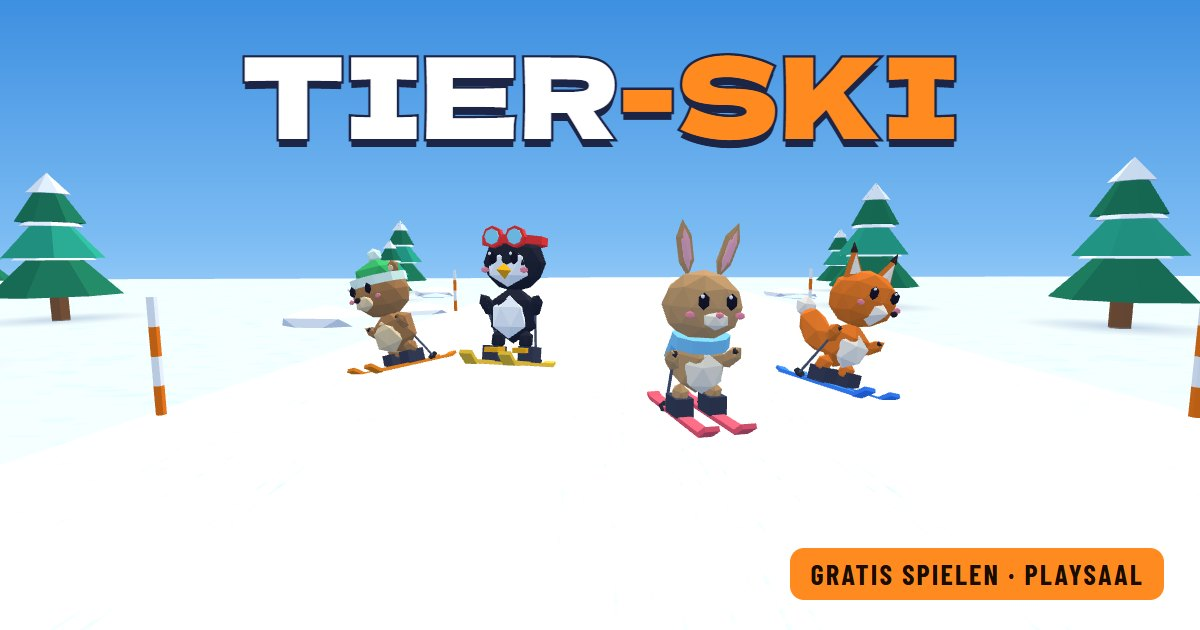
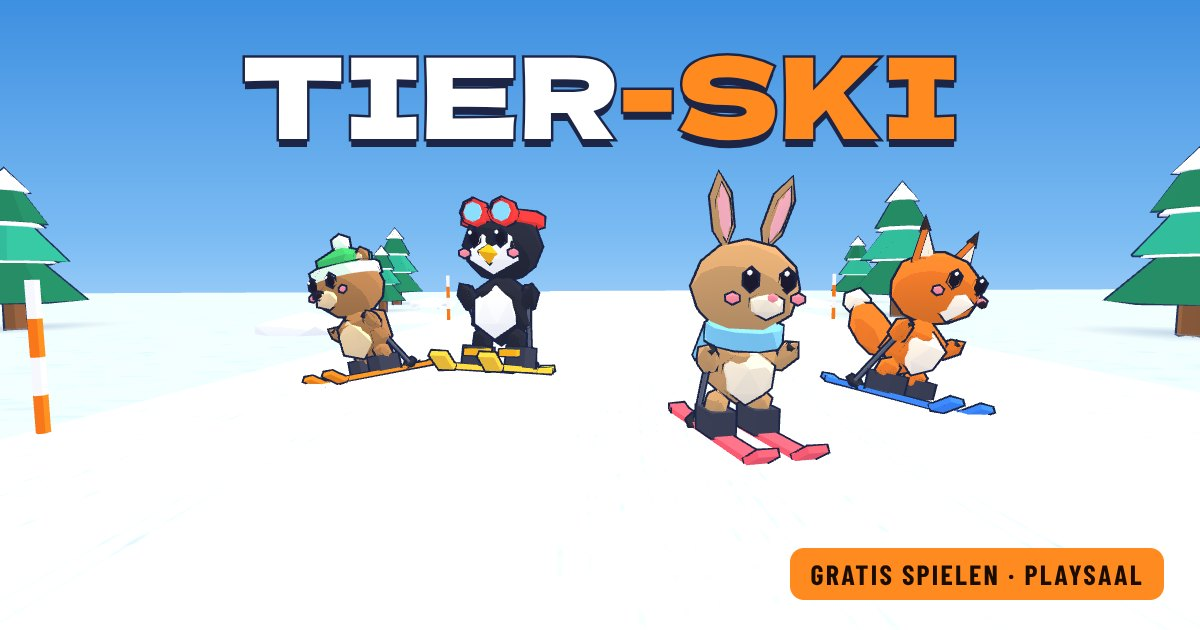
Tier-Ski: Comic-Look – runde Tiere, Umrisslinien, Schneegipfel, Skispuren; Kachel und Vorschau neu
- Toon-Schattierung (3 Stufen), Normalen per Auto-Smooth (48°) geglättet
- Umrisse je Tier-Gelenk zusammengelegt bzw. als Instanz-Zwilling (~60 Zeichenaufrufe)
- Berge mit Höhenringen und weißer Schneekappe
- Skispuren hinter dem Tier, Lücken bei Sprung/Schanze
- Kachel/Teilen-Vorschau neu gerendert, Cache-Versionen erhöht
- Tests: tier-ski-sim 10/10, tier-ski-browser 11/11

Claude-Session: https://claude.ai/code/session_015CsN6Mg3zJYEPCsog9xs49

diff --git a/public/spiele/tier-ski/game.js b/public/spiele/tier-ski/game.js
@@ -33,9 +33,71 @@ const scene = new THREE.Scene();
 const NEBEL = col('#d8ecff');
 scene.fog = new THREE.Fog(NEBEL, 42, 118);
 const camera = new THREE.PerspectiveCamera(62, 1, 0.1, 500);
-scene.add(new THREE.HemisphereLight(col('#eaf6ff'), col('#8fa6cc'), 0.95));
-const sonne = new THREE.DirectionalLight(col('#fff6e8'), 0.85);
-sonne.position.set(-4, 10, 6); scene.add(sonne);
+scene.add(new THREE.HemisphereLight(col('#f4faff'), col('#9db3d8'), 0.75));
+const sonne = new THREE.DirectionalLight(col('#fff3df'), 1.05);
+sonne.position.set(-5, 10, 7); scene.add(sonne);
+
+// ---------- Comic-Look: Stufen-Schattierung, weiche Rundungen, Konturlinien ----------
+// Drei harte Helligkeitsstufen statt Verlauf → wirkt wie gezeichnet
+const stufen = (() => {
+  const d = new Uint8Array([120, 120, 120, 255, 200, 200, 200, 255, 255, 255, 255, 255]);
+  const t = new THREE.DataTexture(d, 3, 1, THREE.RGBAFormat);
+  t.minFilter = t.magFilter = THREE.NearestFilter; t.generateMipmaps = false; t.needsUpdate = true; return t;
+})();
+const toon = (opt) => new THREE.MeshToonMaterial({ gradientMap: stufen, ...opt });
+
+// Normalen glätten, aber nur über flache Knicke (wie „Auto Smooth“ in Blender): Kugeln werden rund, Kanten bleiben scharf.
+// Zusätzlich das Attribut „kontur“ (über alle Flächen gemittelt) für lückenlose Umrisslinien.
+function glaette(geo, winkel = 48) {
+  const g = geo.index ? geo.toNonIndexed() : geo;
+  const P = g.attributes.position, n = P.count, grenz = Math.cos(winkel * Math.PI / 180);
+  const fn = new Float32Array(n * 3), a = new THREE.Vector3(), b = new THREE.Vector3(), c = new THREE.Vector3();
+  for (let i = 0; i < n; i += 3) {
+    a.fromBufferAttribute(P, i); b.fromBufferAttribute(P, i + 1); c.fromBufferAttribute(P, i + 2);
+    c.sub(b); a.sub(b); c.cross(a).normalize();
+    for (let k = 0; k < 3; k++) fn.set([c.x, c.y, c.z], (i + k) * 3);
+  }
+  const gruppen = new Map(), key = (i) => `${Math.round(P.getX(i) * 1e4)},${Math.round(P.getY(i) * 1e4)},${Math.round(P.getZ(i) * 1e4)}`;
+  for (let i = 0; i < n; i++) { const k = key(i); (gruppen.get(k) || gruppen.set(k, []).get(k)).push(i); }
+  const nor = new Float32Array(n * 3), kon = new Float32Array(n * 3);
+  for (const idx of gruppen.values()) {
+    let kx = 0, ky = 0, kz = 0;
+    for (const j of idx) { kx += fn[j * 3]; ky += fn[j * 3 + 1]; kz += fn[j * 3 + 2]; }
+    const kl = Math.hypot(kx, ky, kz) || 1;
+    for (const i of idx) {
+      let x = 0, y = 0, z = 0;
+      for (const j of idx) {
+        if (fn[i * 3] * fn[j * 3] + fn[i * 3 + 1] * fn[j * 3 + 1] + fn[i * 3 + 2] * fn[j * 3 + 2] < grenz) continue;
+        x += fn[j * 3]; y += fn[j * 3 + 1]; z += fn[j * 3 + 2];
+      }
+      const l = Math.hypot(x, y, z) || 1;
+      nor.set([x / l, y / l, z / l], i * 3); kon.set([kx / kl, ky / kl, kz / kl], i * 3);
+    }
+  }
+  g.setAttribute('normal', new THREE.BufferAttribute(nor, 3));
+  g.setAttribute('kontur', new THREE.BufferAttribute(kon, 3));
+  return g;
+}
+
+// Umriss: Rückseiten etwas nach außen geschoben, dunkel gefärbt. Linienbreite bleibt auf dem Bildschirm gleich.
+function konturMat(farbe, dicke) {
+  const m = new THREE.MeshBasicMaterial({ color: col(farbe), side: THREE.BackSide });
+  m.onBeforeCompile = (s) => {
+    s.uniforms.dicke = { value: dicke };
+    s.vertexShader = 'attribute vec3 kontur;\nuniform float dicke;\n' + s.vertexShader.replace('#include <project_vertex>', `
+      vec4 mvPosition = vec4( transformed, 1.0 );
+      vec3 kn = kontur;
+      #ifdef USE_INSTANCING
+        mvPosition = instanceMatrix * mvPosition; kn = mat3( instanceMatrix ) * kn;
+      #endif
+      mvPosition = modelViewMatrix * mvPosition;
+      mvPosition.xyz += normalize( normalMatrix * kn ) * dicke * min( -mvPosition.z, 14.0 );
+      gl_Position = projectionMatrix * mvPosition;`);
+  };
+  return m;
+}
+const TIER_KONTUR = konturMat('#1d2547', 0.0042);
+const WELT_KONTUR = konturMat('#24345e', 0.0034);
 
 const NEIGUNG = -0.17;                      // der Hang fällt in Fahrtrichtung ab
 const hang = new THREE.Group(); hang.rotation.x = NEIGUNG; scene.add(hang);
@@ -80,8 +142,8 @@ const loader = new THREE.GLTFLoader();
 const url = (n) => new URL(`./modelle/${n}.glb?v=1`, import.meta.url).href;
 const ladeGlb = (n) => new Promise((ok, err) => loader.load(url(n), ok, undefined, err));
 
-const weltMat = new THREE.MeshLambertMaterial({ vertexColors: true });
-const glanzMat = new THREE.MeshLambertMaterial({ vertexColors: true, emissive: col('#4a3300') });
+const weltMat = toon({ vertexColors: true });
+const glanzMat = toon({ vertexColors: true, emissive: col('#5a3d00') });
 const bergMat = new THREE.MeshLambertMaterial({ vertexColors: true, fog: false });
 
 // Alle Teile eines Objekts zu einer Geometrie mit Vertex-Farben verschmelzen (ein Zeichenaufruf pro Objektart)
@@ -110,25 +172,76 @@ function backe(root) {
   return geo;
 }
 
-const MENGE = { tanne: 170, fels: 30, schneemann: 20, schanze: 6, ast: 6, muenze: 70, flocke: 10, huegel: 70, stange: 60, berg: 14, fleck: 260 };
-const inst = {};
-function instanzen(typ, geo, mat, eltern = hang) {
-  const m = new THREE.InstancedMesh(geo, mat, MENGE[typ]);
-  m.instanceMatrix.setUsage(THREE.DynamicDrawUsage); m.count = 0; m.frustumCulled = false;
-  eltern.add(m); inst[typ] = m; return m;
+// Berge: gleiche Größe wie das Blender-Modell, aber in Höhenringe unterteilt → klare weiße Schneekappe, darunter Fels
+function schneeBerg(vorlage) {
+  vorlage.computeBoundingBox();
+  const { min, max } = vorlage.boundingBox, r = Math.max(max.x - min.x, max.z - min.z) / 2, h = max.y - min.y;
+  const g = new THREE.ConeGeometry(r, h, 7, 5).toNonIndexed(); g.translate(0, min.y + h / 2, 0);
+  const P = g.attributes.position;
+  for (let i = 0; i < P.count; i++) {               // Ringe leicht verbeulen (fest, nicht zufällig)
+    const y = P.getY(i), t = (y - min.y) / h;
+    if (t > 0.01 && t < 0.99) { const w = Math.atan2(P.getZ(i), P.getX(i)), k = 1 + 0.16 * Math.sin(w * 3 + t * 9) * (1 - t); P.setX(i, P.getX(i) * k); P.setZ(i, P.getZ(i) * k); }
+  }
+  g.computeVertexNormals();
+  const farbe = new Float32Array(P.count * 3), weiss = col('#f7fbff'), fels = col('#7f8fb8'), fuss = col('#aebfe2'), f = new THREE.Color();
+  for (let i = 0; i < P.count; i += 3) {
+    const t = ((P.getY(i) + P.getY(i + 1) + P.getY(i + 2)) / 3 - min.y) / h;
+    if (t > 0.6) f.copy(weiss); else f.copy(fuss).lerp(fels, t / 0.6);
+    for (let k = 0; k < 3; k++) farbe.set([f.r, f.g, f.b], (i + k) * 3);
+  }
+  g.setAttribute('color', new THREE.BufferAttribute(farbe, 3));
+  return g;
 }
 
-// Tiere: Materialien auf das günstigere Lambert umstellen, Clips vorbereiten
+const MENGE = { tanne: 170, fels: 30, schneemann: 20, schanze: 6, ast: 6, muenze: 70, flocke: 10, huegel: 70, stange: 60, berg: 14, fleck: 260 };
+const inst = {}, umriss = {};
+function instanzen(typ, geo, mat, eltern = hang, kontur = null) {
+  const m = new THREE.InstancedMesh(geo, mat, MENGE[typ]);
+  m.instanceMatrix.setUsage(THREE.DynamicDrawUsage); m.count = 0; m.frustumCulled = false;
+  eltern.add(m); inst[typ] = m;
+  if (kontur && geo.attributes.kontur) {
+    // Umriss teilt sich die Positionen mit dem Objekt → ein Zeichenaufruf mehr, keine doppelte Rechnung
+    const u = new THREE.InstancedMesh(geo, kontur, MENGE[typ]);
+    u.instanceMatrix = m.instanceMatrix; u.count = 0; u.frustumCulled = false; eltern.add(u); umriss[typ] = u;
+  }
+  return m;
+}
+
+// Tiere: Comic-Material, gerundete Formen, Umrisslinie; Clips vorbereiten
 const tiere = {};
 function richteTierEin(name, gltf) {
   const root = gltf.scene;
-  const cache = new Map();
-  root.traverse((o) => {
-    if (!o.isMesh) return;
+  const cache = new Map(), meshes = [];
+  root.updateMatrixWorld(true);
+  root.traverse((o) => { if (o.isMesh) meshes.push(o); });
+  // Animierte Gelenke (Rig, Koerper, Kopf, Ski_L, Ski_R): Umrisse werden je Gelenk zu einem Mesh zusammengelegt
+  const gelenke = new Set(gltf.animations.flatMap((c) => c.tracks.map((t) => THREE.PropertyBinding.parseTrackName(t.name).nodeName)));
+  const proGelenk = new Map(), rel = new THREE.Matrix4(), nm = new THREE.Matrix3(), v = new THREE.Vector3();
+  for (const o of meshes) {
     const m = o.material;
-    if (!cache.has(m)) cache.set(m, new THREE.MeshLambertMaterial({ color: m.color, emissive: m.emissive || new THREE.Color(0) }));
+    if (!cache.has(m)) cache.set(m, toon({ color: m.color, emissive: m.emissive || new THREE.Color(0) }));
     o.material = cache.get(m);
-  });
+    o.geometry = glaette(o.geometry);
+    // Sehr kleine Teile (Augen-Glanz, Schnurrhaare, Stockteller) ohne Umriss, sonst wirken sie wie Kleckse
+    o.geometry.computeBoundingSphere();
+    const ws = new THREE.Vector3(); o.getWorldScale(ws);
+    if (o.geometry.boundingSphere.radius * Math.max(ws.x, ws.y, ws.z) < 0.05) continue;
+    let g = o; while (g !== root && !gelenke.has(g.name)) g = g.parent;
+    rel.copy(g.matrixWorld).invert().multiply(o.matrixWorld); nm.getNormalMatrix(rel);
+    const P = o.geometry.attributes.position, K = o.geometry.attributes.kontur;
+    const ziel = proGelenk.get(g) || proGelenk.set(g, { pos: [], kon: [] }).get(g);
+    for (let i = 0; i < P.count; i++) {
+      v.fromBufferAttribute(P, i).applyMatrix4(rel); ziel.pos.push(v.x, v.y, v.z);
+      v.fromBufferAttribute(K, i).applyMatrix3(nm).normalize(); ziel.kon.push(v.x, v.y, v.z);
+    }
+  }
+  for (const [g, { pos, kon }] of proGelenk) {
+    const geo = new THREE.BufferGeometry();
+    geo.setAttribute('position', new THREE.Float32BufferAttribute(pos, 3));
+    geo.setAttribute('kontur', new THREE.Float32BufferAttribute(kon, 3));
+    const u = new THREE.Mesh(geo, TIER_KONTUR); u.name = g.name + '_Umriss'; u.renderOrder = -1; u.frustumCulled = false;
+    g.add(u);
+  }
   const mixer = new THREE.AnimationMixer(root);
   const a = {};
   for (const clip of gltf.animations) {
@@ -199,6 +312,36 @@ function bewegeSpritzer(dt) {
     spPos[i * 3] += spVel[i * 3] * dt; spPos[i * 3 + 1] = Math.max(0.02, spPos[i * 3 + 1] + spVel[i * 3 + 1] * dt); spPos[i * 3 + 2] += spVel[i * 3 + 2] * dt;
   }
   spGeo.attributes.position.needsUpdate = true;
+}
+
+// ---------- Skispuren im Schnee (zwei Rillen hinter dem Tier) ----------
+const SPUR_N = 110, SPUR_ABST = 0.4;
+const spur = [];                               // { x, d, an } – an = Skier auf dem Boden
+const spurPos = new Float32Array((SPUR_N - 1) * 2 * 6 * 3);
+const spurGeo = new THREE.BufferGeometry(); spurGeo.setAttribute('position', new THREE.BufferAttribute(spurPos, 3));
+const spurMesh = new THREE.Mesh(spurGeo, new THREE.MeshBasicMaterial({ color: col('#9fbbe6'), transparent: true, opacity: 0.55, depthWrite: false, side: THREE.DoubleSide }));
+spurMesh.frustumCulled = false; spurMesh.renderOrder = 1; hang.add(spurMesh);
+function spurMerken() {
+  const letzte = spur[spur.length - 1];
+  if (letzte && fahrt.d - letzte.d < SPUR_ABST) return;
+  spur.push({ x: fahrt.x, d: fahrt.d, an: !fahrt.luft && !fahrt.tot && !fahrt.schanze });
+  if (spur.length > SPUR_N) spur.shift();
+}
+function zeichneSpur() {
+  spurPos.fill(0);
+  let o = 0;
+  for (let i = 1; i < spur.length; i++) {
+    const a = spur[i - 1], b = spur[i];
+    if (a.an && b.an) {
+      for (const s of [-0.17, 0.17]) {
+        const ax = a.x + s, bx = b.x + s, w = 0.055, y = 0.022;
+        spurPos.set([ax - w, y, -a.d, ax + w, y, -a.d, bx - w, y, -b.d, ax + w, y, -a.d, bx + w, y, -b.d, bx - w, y, -b.d], o);
+        o += 18;
+      }
+    }
+  }
+  spurGeo.setDrawRange(0, o / 3);
+  spurGeo.attributes.position.needsUpdate = true;
 }
 
 // ---------- Berge am Horizont ----------
@@ -289,7 +432,7 @@ function tonKnoepfe() {
 }
 function zeigeMenu() {
   zustand = 'menu'; zeige('menu');
-  fahrt = L.neueFahrt(1); fahrt.strecke.items = []; fahrt.strecke.next = 1e9;
+  fahrt = L.neueFahrt(1); fahrt.strecke.items = []; fahrt.strecke.next = 1e9; spur.length = 0;
   if (!tiere[auswahl]) auswahl = 'hase';
   waehleTier(auswahl);
   aktualisiereMenu();
@@ -335,7 +478,7 @@ function starte() {
   if (!stand.tiere.includes(auswahl)) auswahl = stand.tier;
   stand.tier = auswahl; speichere();
   const seed = TEST && Q.get('seed') ? Number(Q.get('seed')) : (Date.now() % 1e9);
-  fahrt = L.neueFahrt(seed);
+  fahrt = L.neueFahrt(seed); spur.length = 0;
   waehleTier(auswahl);
   zustand = 'fahrt'; zeige(null);
   sturzZeit = 0; neuerRekord = false;
@@ -435,7 +578,9 @@ function zeichneWelt(zeit) {
   for (const typ in inst) {
     if (typ === 'berg') continue;
     inst[typ].count = zaehler[typ] || 0; inst[typ].instanceMatrix.needsUpdate = true;
+    if (umriss[typ]) umriss[typ].count = inst[typ].count;
   }
+  zeichneSpur();
 }
 
 // ---------- Kamera ----------
@@ -449,7 +594,7 @@ function kamera(dt) {
   tmpA.set(camX, (hoch ? 4.1 : 3.7) + camY, -d + (hoch ? 7.4 : 7.0));
   tmpB.set(camX * 0.85, 0.6 + camY * 1.2, -d - 10);
   // Menü: vor dem Tier, schaut es an
-  if (foto) { kamZiel.set(0.6, 1.75, -d - 6.1); kamBlick.set(0.75, 1.05, -d + 0.6); }
+  if (foto) { const q = camera.aspect < 1.3; kamZiel.set(q ? 0.85 : 0.7, q ? 1.45 : 1.35, -d - (q ? 5.9 : 4.7)); kamBlick.set(0.85, q ? 0.85 : 0.95, -d + 0.8); }
   else if (hoch) { kamZiel.set(0.9, 1.55, -d - 5.6); kamBlick.set(0, 1.15, -d); }
   else { kamZiel.set(2.0, 1.35, -d - 5.4); kamBlick.set(0.8, 0.5, -d); }
   kamZiel.lerp(tmpA, 1 - menuMix); kamBlick.lerp(tmpB, 1 - menuMix);
@@ -502,6 +647,7 @@ function bewegeFigur(dt, zeit) {
   else if (fahrt.lenk < -0.35) pose = 'links';
   else if (fahrt.lenk > 0.35) pose = 'rechts';
   setzePose(pose, pose === 'trick' ? 0.06 : 0.16);
+  if (zustand === 'fahrt') spurMerken();
   // Schnee spritzt in Kurven und bei hohem Tempo
   if (!fahrt.luft && !fahrt.tot && zustand === 'fahrt') {
     const menge = Math.abs(fahrt.lenk) > 0.45 ? 2 : (Math.random() < L.tempo(fahrt.d) / 60 ? 1 : 0);
@@ -573,12 +719,12 @@ async function start() {
     const glbs = await Promise.all(namen.map((n) => ladeGlb(n).then((g) => { fertig++; balken.style.width = (fertig / namen.length * 100) + '%'; return g; })));
     const welt = glbs[0].scene;
     const teil = (n) => welt.children.find((c) => c.name === n);
-    for (const typ of ['tanne', 'fels', 'schneemann', 'schanze', 'ast', 'huegel', 'stange']) {
-      instanzen(typ, backe(teil(typ[0].toUpperCase() + typ.slice(1))), weltMat);
-    }
-    instanzen('muenze', backe(teil('Muenze')), glanzMat);
-    instanzen('flocke', backe(teil('Flocke')), glanzMat);
-    const berg = instanzen('berg', backe(teil('Berg')), bergMat, bergGruppe);
+    // [Typ, Glättungswinkel (klein = facettiert lassen), Umriss?]
+    const ART = [['tanne', 5, true], ['fels', 5, true], ['schneemann', 48, true], ['schanze', 30, true], ['ast', 40, true], ['huegel', 60, false], ['stange', 40, false]];
+    for (const [typ, w, u] of ART) instanzen(typ, glaette(backe(teil(typ[0].toUpperCase() + typ.slice(1))), w), weltMat, hang, u ? WELT_KONTUR : null);
+    instanzen('muenze', glaette(backe(teil('Muenze')), 48), glanzMat, hang, WELT_KONTUR);
+    instanzen('flocke', glaette(backe(teil('Flocke')), 30), glanzMat, hang, WELT_KONTUR);
+    const berg = instanzen('berg', schneeBerg(backe(teil('Berg'))), bergMat, bergGruppe);
     BERGE.forEach(([x, z, s, r], i) => { E.set(0, r, 0); Qn.setFromEuler(E); V.set(x, 0, z); S.set(s, s * 0.9, s); M.compose(V, Qn, S); berg.setMatrixAt(i, M); });
     berg.count = BERGE.length; berg.instanceMatrix.needsUpdate = true;
     instanzen('fleck', fleckGeo, fleckMat).renderOrder = 1;

diff --git a/public/spiele/tier-ski.html b/public/spiele/tier-ski.html
@@ -1,4 +1,4 @@
-<!doctype html><html lang="de"><head><meta charset="utf-8"><meta name="viewport" content="width=device-width,initial-scale=1,maximum-scale=1,user-scalable=no,viewport-fit=cover"><title>Tier-Ski · 3D-Skispiel für Kinder | PlaySaal</title><meta name="description" content="Hase, Fuchs, Pinguin und Bär fahren Ski: ausweichen, unter Ästen ducken, über Schanzen springen und Münzen sammeln. Kostenloses 3D-Skispiel für Kinder ab 5, ohne Anmeldung."><link rel="canonical" href="https://playsaal.com/spiele/tier-ski"><meta name="robots" content="index,follow,max-image-preview:large"><meta property="og:type" content="website"><meta property="og:site_name" content="PlaySaal"><meta property="og:title" content="Tier-Ski · Ab auf die Piste!"><meta property="og:description" content="Ausweichen, ducken, springen, Münzen sammeln – mit Hase, Fuchs, Pinguin und Bär. Wie weit kommst du?"><meta property="og:url" content="https://playsaal.com/spiele/tier-ski"><meta property="og:image" content="https://playsaal.com/bilder/tier-ski-og.jpg"><meta property="og:image:width" content="1200"><meta property="og:image:height" content="630"><meta name="twitter:card" content="summary_large_image"><meta name="twitter:title" content="Tier-Ski · Ab auf die Piste!"><meta name="twitter:description" content="Ausweichen, ducken, springen, Münzen sammeln – wie weit kommst du?"><meta name="twitter:image" content="https://playsaal.com/bilder/tier-ski-og.jpg"><meta name="theme-color" content="#5aa9f0"><link rel="icon" href="/favicon.ico"><link rel="stylesheet" href="/assets/fonts.css"><link rel="stylesheet" href="/spiele/tier-ski/style.css?v=1"><script>try{localStorage.setItem('playsaal.zuletzt',JSON.stringify({s:'tier-ski',t:Date.now()}))}catch(e){}</script></head>
+<!doctype html><html lang="de"><head><meta charset="utf-8"><meta name="viewport" content="width=device-width,initial-scale=1,maximum-scale=1,user-scalable=no,viewport-fit=cover"><title>Tier-Ski · 3D-Skispiel für Kinder | PlaySaal</title><meta name="description" content="Hase, Fuchs, Pinguin und Bär fahren Ski: ausweichen, unter Ästen ducken, über Schanzen springen und Münzen sammeln. Kostenloses 3D-Skispiel für Kinder ab 5, ohne Anmeldung."><link rel="canonical" href="https://playsaal.com/spiele/tier-ski"><meta name="robots" content="index,follow,max-image-preview:large"><meta property="og:type" content="website"><meta property="og:site_name" content="PlaySaal"><meta property="og:title" content="Tier-Ski · Ab auf die Piste!"><meta property="og:description" content="Ausweichen, ducken, springen, Münzen sammeln – mit Hase, Fuchs, Pinguin und Bär. Wie weit kommst du?"><meta property="og:url" content="https://playsaal.com/spiele/tier-ski"><meta property="og:image" content="https://playsaal.com/bilder/tier-ski-og.jpg?v=2"><meta property="og:image:width" content="1200"><meta property="og:image:height" content="630"><meta name="twitter:card" content="summary_large_image"><meta name="twitter:title" content="Tier-Ski · Ab auf die Piste!"><meta name="twitter:description" content="Ausweichen, ducken, springen, Münzen sammeln – wie weit kommst du?"><meta name="twitter:image" content="https://playsaal.com/bilder/tier-ski-og.jpg?v=2"><meta name="theme-color" content="#5aa9f0"><link rel="icon" href="/favicon.ico"><link rel="stylesheet" href="/assets/fonts.css"><link rel="stylesheet" href="/spiele/tier-ski/style.css?v=1"><script>try{localStorage.setItem('playsaal.zuletzt',JSON.stringify({s:'tier-ski',t:Date.now()}))}catch(e){}</script></head>
 <body class="im-menu">
 <canvas id="c" aria-label="Skipiste"></canvas>
 <a class="pz-home" href="/" aria-label="Alle Spiele auf PlaySaal" title="Alle Spiele"><svg viewBox="0 0 20 20" width="20" height="20" aria-hidden="true"><rect x="2" y="2" width="7" height="7" rx="1.5" fill="currentColor"/><rect x="11" y="2" width="7" height="7" rx="1.5" fill="currentColor"/><rect x="2" y="11" width="7" height="7" rx="1.5" fill="currentColor"/><rect x="11" y="11" width="7" height="7" rx="1.5" fill="#FFD21C"/></svg></a>
@@ -67,5 +67,5 @@
 
 <script src="/assets/three.min.js"></script>
 <script src="/spiele/tier-ski/GLTFLoader.js?v=r128"></script>
-<script type="module" src="/spiele/tier-ski/game.js?v=1"></script>
+<script type="module" src="/spiele/tier-ski/game.js?v=2"></script>
 <script src="/assets/playsaal-config.js" defer></script><script src="/assets/playsaal.js" defer></script></body></html>

diff --git a/public/index.html b/public/index.html
@@ -245,7 +245,7 @@
     <section class="block block-neu" id="neu" aria-labelledby="neu-titel">
       <div class="block-kopf"><h2 id="neu-titel"><svg viewBox="0 0 24 24" aria-hidden="true"><path d="M9.94 15.5A2 2 0 0 0 8.5 14.06l-6.14-1.58a.5.5 0 0 1 0-.96L8.5 9.94A2 2 0 0 0 9.94 8.5l1.58-6.14a.5.5 0 0 1 .96 0L14.06 8.5a2 2 0 0 0 1.44 1.44l6.14 1.58a.5.5 0 0 1 0 .96L15.5 14.06a2 2 0 0 0-1.44 1.44l-1.58 6.14a.5.5 0 0 1-.96 0z" fill="none" stroke="currentColor" stroke-width="2" stroke-linecap="round" stroke-linejoin="round"/><path d="M20 3v4M22 5h-4M4 17v2M5 18H3" fill="none" stroke="currentColor" stroke-width="2" stroke-linecap="round" stroke-linejoin="round"/></svg> Neu</h2><p>Neu bei PlaySaal</p></div>
       <ul class="kacheln" data-lay="neu">
-      <li class="kachel" data-slug="tier-ski" data-kategorien="geschick,kinder" data-rec="tierski" data-name="Tier-Ski" data-arten="Für Kinder,3D,Ski" data-kat="neu"><a href="/spiele/tier-ski"><img src="/bilder/tier-ski.webp" width="720" height="720" alt="Tier-Ski: Hase, Fuchs, Pinguin und Bär fahren auf Skiern die verschneite Piste hinunter" decoding="async" loading="lazy"><span class="name">Tier-Ski</span><span class="badge" title="Neu">★</span></a></li>
+      <li class="kachel" data-slug="tier-ski" data-kategorien="geschick,kinder" data-rec="tierski" data-name="Tier-Ski" data-arten="Für Kinder,3D,Ski" data-kat="neu"><a href="/spiele/tier-ski"><img src="/bilder/tier-ski.webp?v=2" width="720" height="720" alt="Tier-Ski: Hase, Fuchs, Pinguin und Bär fahren auf Skiern die verschneite Piste hinunter" decoding="async" loading="lazy"><span class="name">Tier-Ski</span><span class="badge" title="Neu">★</span></a></li>
       <li class="kachel" data-slug="tiertrumpf" data-kategorien="brettspiele,kinder" data-rec="tiertrumpf" data-name="Tiertrumpf" data-arten="Für Kinder,Kartenspiel,Tiere" data-kat="neu"><a href="/spiele/tiertrumpf"><img src="/bilder/tiertrumpf.webp" width="720" height="720" alt="Tiertrumpf: Fuchs Fiete hält bunte Tierkarten mit Elefant, Panda, Frosch, Katze, Löwe und Hase" decoding="async" loading="lazy"><span class="name">Tiertrumpf</span></a></li>
       <li class="kachel" data-slug="sternenfahrt" data-kategorien="rennen,kinder" data-rec="sternenfahrt" data-name="Neon Coast – Sternenfahrt" data-arten="Für Kinder,Autos,Sterne sammeln" data-kat="neu"><a href="/spiele/sternenfahrt"><img src="/bilder/sternenfahrt.webp" width="720" height="720" alt="Neon Coast – Sternenfahrt: Ein türkises Auto fährt auf der Strandpromenade zwischen Palmen auf drei goldene Sterne zu" decoding="async" loading="lazy"><span class="name">Sternenfahrt</span></a></li>
       <li class="kachel" data-slug="hexis-zaubersuppe" data-kategorien="raetsel,kinder" data-rec="zaubersuppe" data-name="Hexis Zaubersuppe" data-arten="Für Kinder,Halloween,Hexe,Zählen" data-kat="neu"><a href="/spiele/hexis-zaubersuppe"><img src="/bilder/hexis-zaubersuppe.webp" width="720" height="720" alt="Hexis Zaubersuppe: Hexe Hexi rührt im blubbernden Kessel, Kater Kasimir schwebt mit Fledermausflügeln daneben" decoding="async" loading="lazy"><span class="name">Hexis Zaubersuppe</span></a></li>

diff --git a/docs/TIER_SKI.md b/docs/TIER_SKI.md
@@ -2,7 +2,7 @@
 
 3D-Endlos-Skispiel für Kinder ab etwa 5, Hochformat, `/spiele/tier-ski`. Ein Tier fährt von selbst bergab; das Kind lenkt, duckt sich unter Ästen, springt über Schanzen (automatisch), macht in der Luft einen Trick und sammelt Münzen. Mit Münzen werden weitere Tiere freigeschaltet. Kein Konto nötig, keine Werbung, keine Käufe.
 
-Stand 31.10.2026: auf Branch `feature/tier-ski`, noch nicht auf `main`.
+Stand 31.10.2026: auf `main` (Kachel unter „Neu“, sobald der Katalog-Eintrag ausgeführt ist). Optik-Überarbeitung auf Branch `tier-ski-optik`.
 
 ## Regeln
 
@@ -43,6 +43,8 @@ Tiere: Hase (frei), Fuchs (50), Pinguin (120), Bär (220 Münzen).
 ## Modelle und Animation
 
 In Blender (5.2) per Python gebaut: Low-Poly-Formen (Ikosphären, Kegel, Quader), flache Schattierung, nur Grundfarben. Jedes Tier hat die Gelenke `Rig` (ganzes Tier mit Skiern), `Koerper`, `Kopf`, `Ski_L`, `Ski_R`. Die Clips `fahren`, `links`, `rechts`, `ducken`, `sprung`, `trick`, `sturz` sind Objekt-Animationen, als NLA-Spuren exportiert (`export_animation_mode='NLA_TRACKS'`, ohne Animations-Optimierung, damit jeder Clip alle 15 Kanäle enthält). Im Spiel blendet ein `AnimationMixer` per `crossFadeFrom` weich zwischen den Clips über.
+
+Darstellung im Spiel (Comic-Look, alles in `game.js`, ohne neue Modelle): `MeshToonMaterial` mit drei harten Helligkeitsstufen; Normalen werden beim Laden über flache Knicke geglättet (wie Blenders „Auto Smooth“, 48°), dadurch sind Köpfe und Körper rund und Kanten bleiben scharf. Dunkle Umrisslinien entstehen aus nach außen geschobenen Rückseiten (Attribut `kontur`, Linienbreite bildschirmkonstant); bei den Tieren je animiertem Gelenk zu einem Mesh zusammengelegt, bei Strecken-Objekten als zweites `InstancedMesh` mit derselben Instanz-Matrix. Berge werden aus dem Blender-Berg in Höhenringe unterteilt und bekommen eine weiße Schneekappe. Hinter dem Tier entstehen Skispuren (zwei Rillen, Lücken beim Sprung). Rund 60 Zeichenaufrufe pro Bild.
 
 Strecken-Objekte (`welt.glb`: Tanne, Fels, Schneemann, Schanze, Ast, Muenze, Flocke, Huegel, Stange, Berg) werden beim Laden je zu einer Geometrie mit Vertex-Farben verschmolzen und als `InstancedMesh` gezeichnet: rund 45 Zeichenaufrufe pro Bild. Schatten sind weiche Flecken, keine Schattenberechnung. Bei langsamen Geräten senkt das Spiel die Pixeldichte.
 
